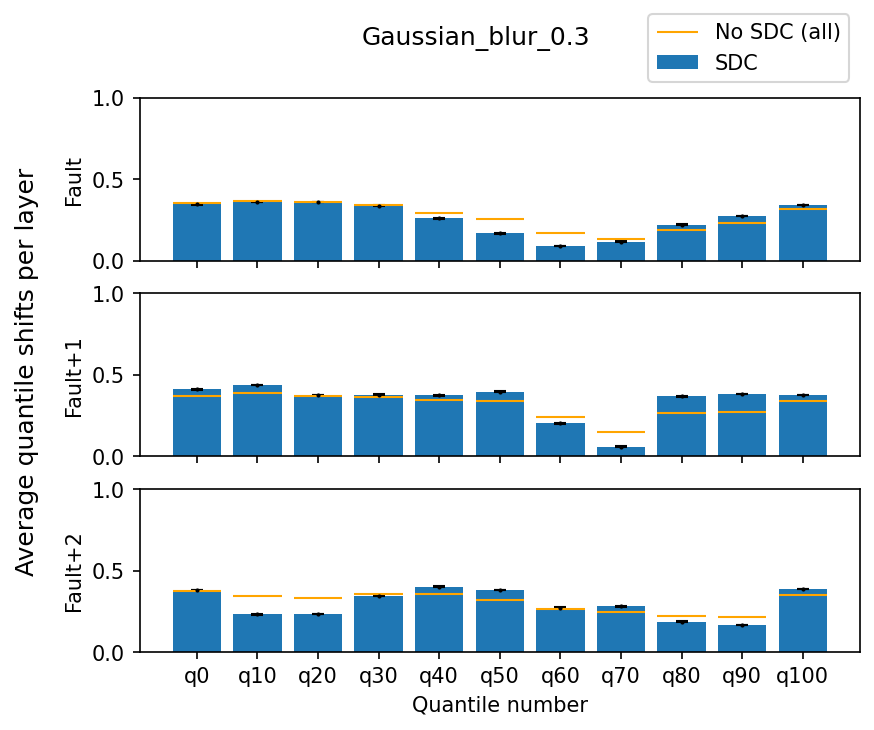
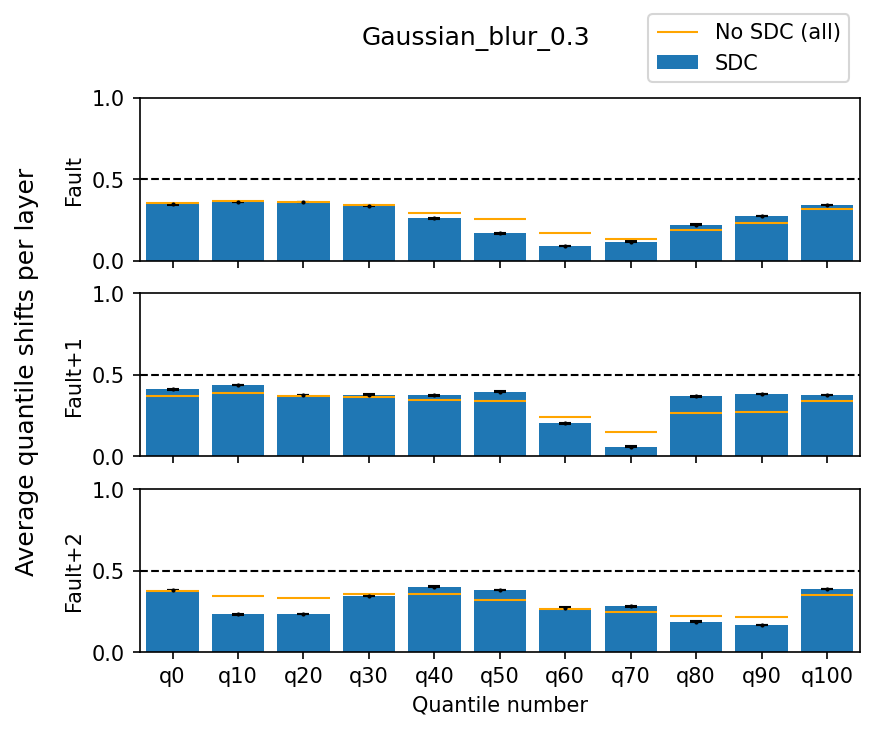
baseline for quantile shift plots added

diff --git a/object_detection/check_quantile_shifts_demo.py b/object_detection/check_quantile_shifts_demo.py
@@ -26,6 +26,8 @@ def plot_hist(mns, errs, mns_ref, max_mon_range, target, pth):
     q_names = ['q0', 'q10', 'q20', 'q30', 'q40', 'q50', 'q60', 'q70', 'q80', 'q90', 'q100']
     for lay in range(max_mon_range): 
         x_pos = list(range(len(mns[lay])))
+        axs[lay].hlines(y=0.5, xmin=x_pos[0]-1, xmax=x_pos[-1]+1, linewidth=1, color='k', linestyles='--', label=None)
+
         if lay == 0:
             lbl = 'SDC'
         else:
@@ -49,6 +51,7 @@ def plot_hist(mns, errs, mns_ref, max_mon_range, target, pth):
         else:
             axs[lay].set_ylabel("Fault+" +str(lay))
         axs[lay].set_ylim([0,1])
+        axs[lay].set_xlim([x_pos[0]-0.5, x_pos[-1]+0.5])
         # # Put text
         # for n in range(len(mns[lay])):
         #     x = x_pos
@@ -104,7 +107,7 @@ def get_mns_errs(data_x, no_layers_shown = None):
 
 def main():
     ##############################################################################
-    folder_path = ['/home/fgeissle/fgeissle_ranger/object_detection/quantile_detection_data/']
+    folder_path = ['/home/fgeissle/pytorchalfi/object_detection/quantile_detection_data/']
     file_list = find_file_by_name(folder_path, 'quantile_shift_stats')[0]
     
     no_layers_shown = 3 #None #None means we extract from data, otherwise give explicitly
